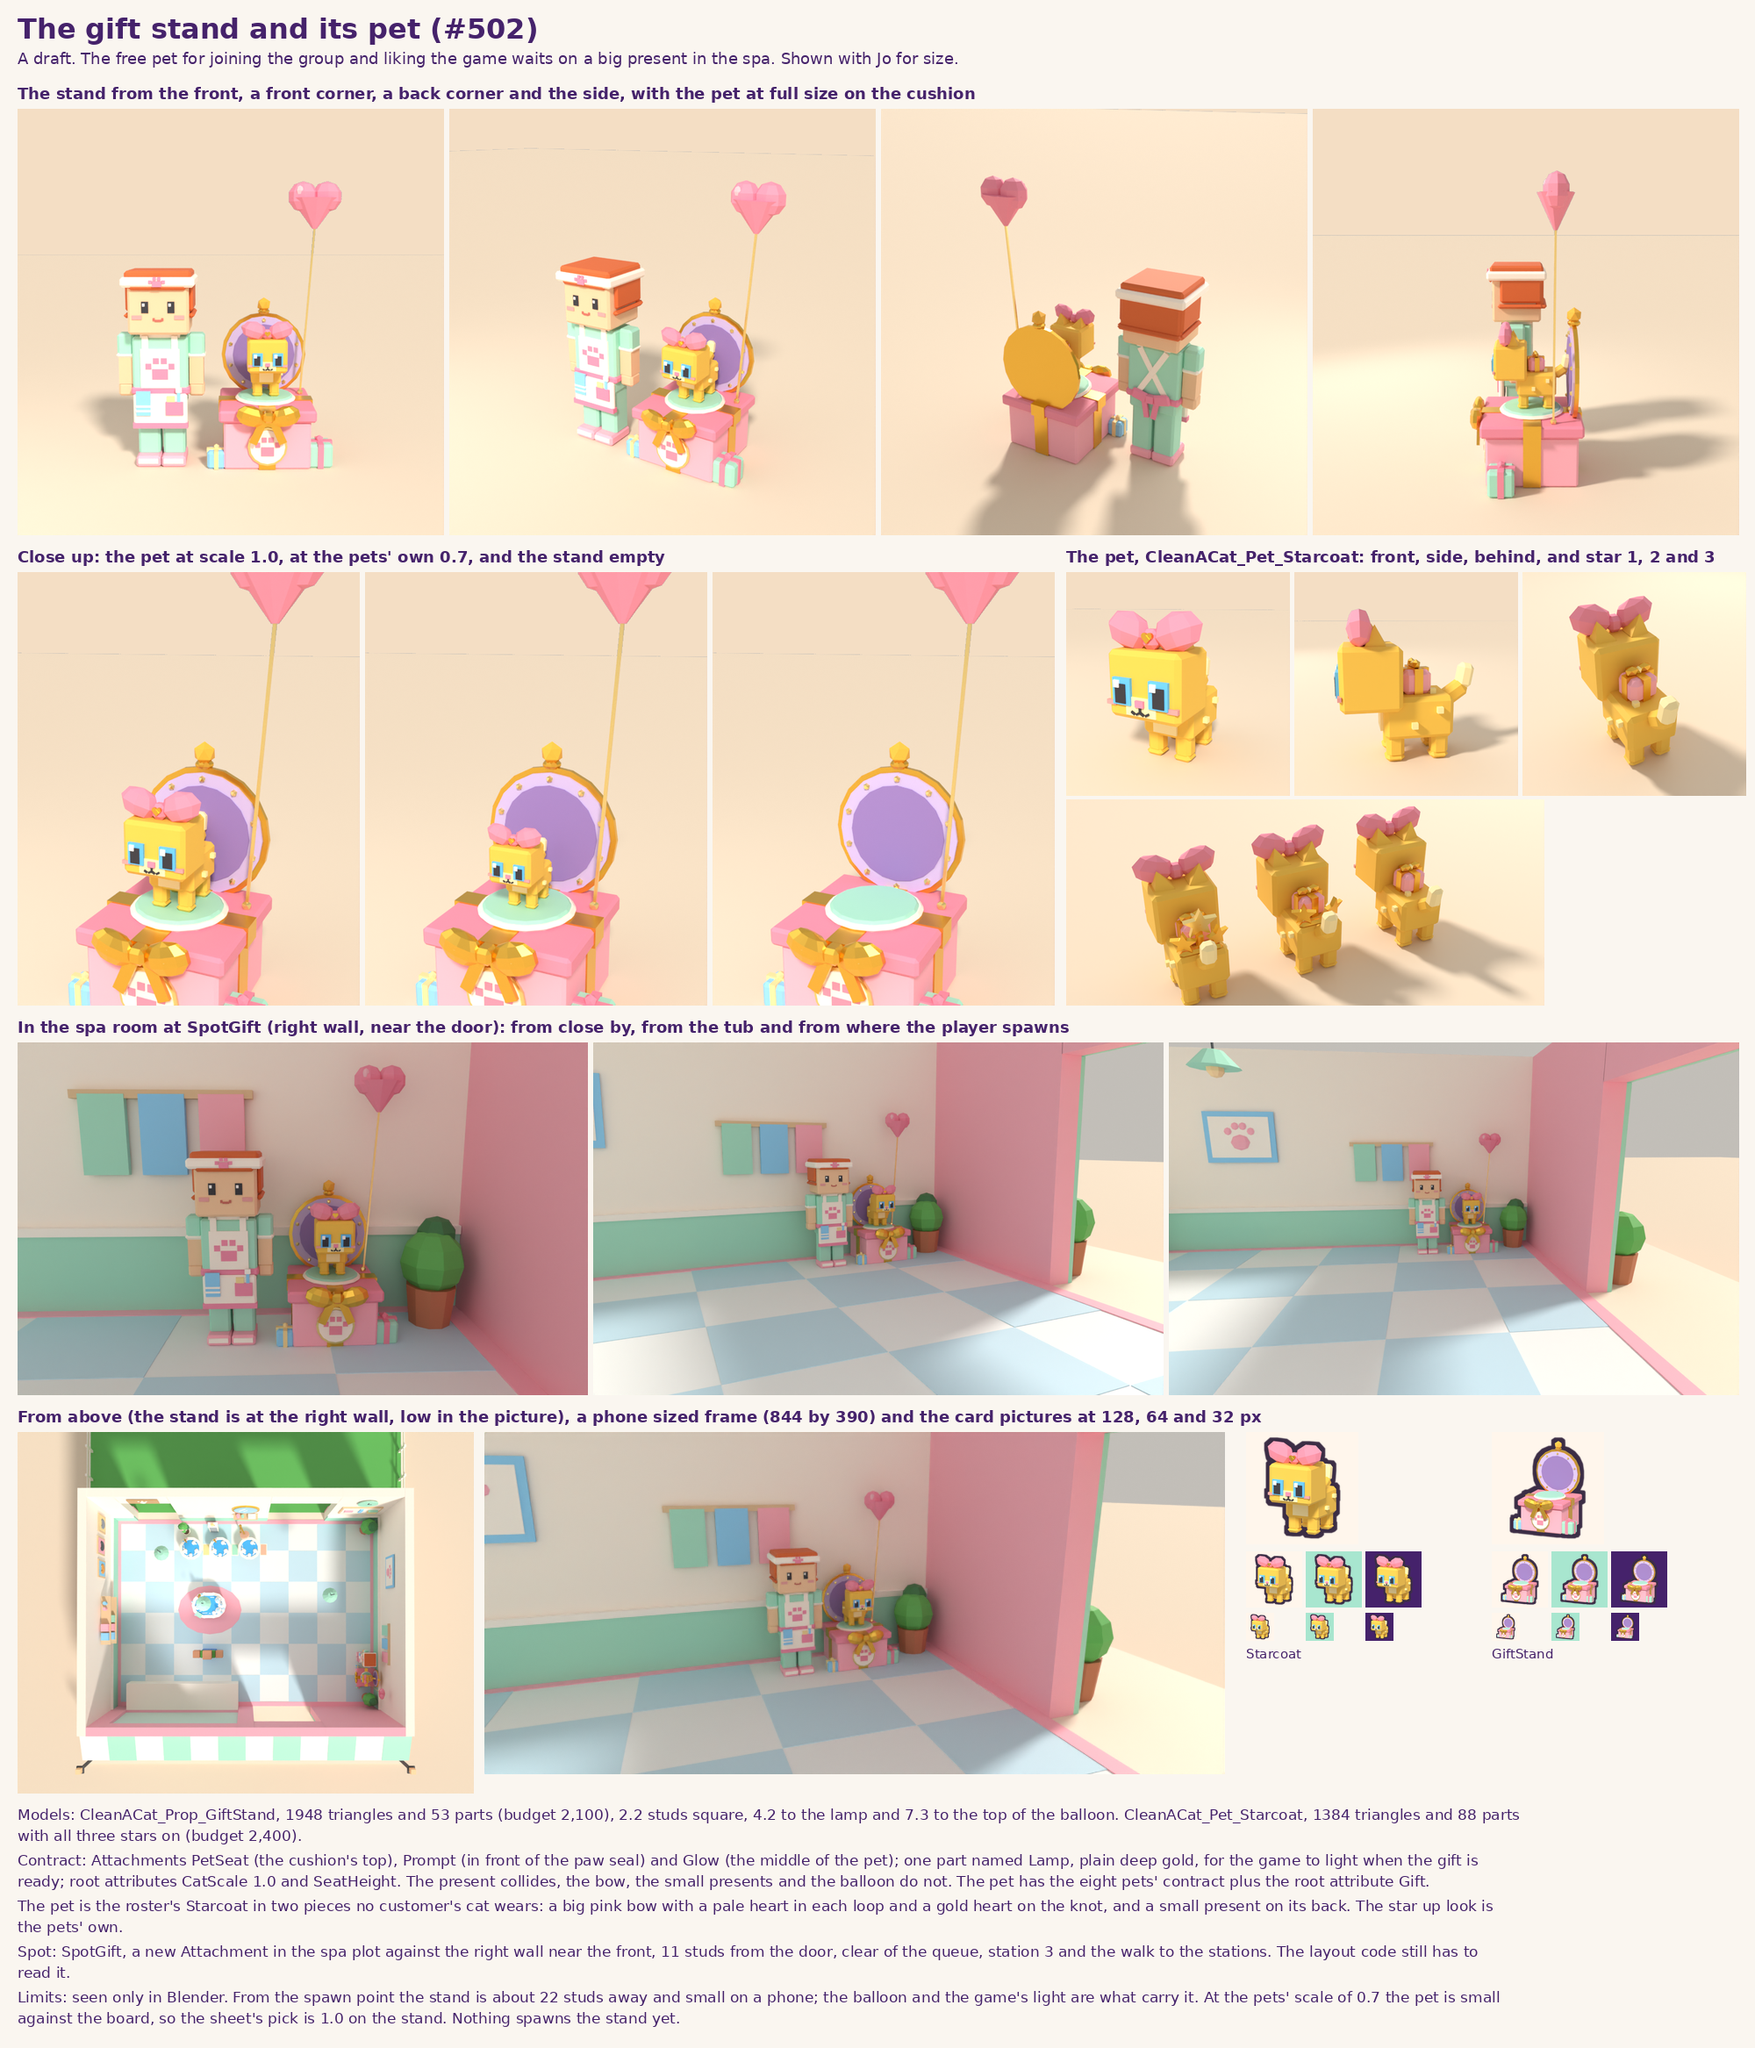
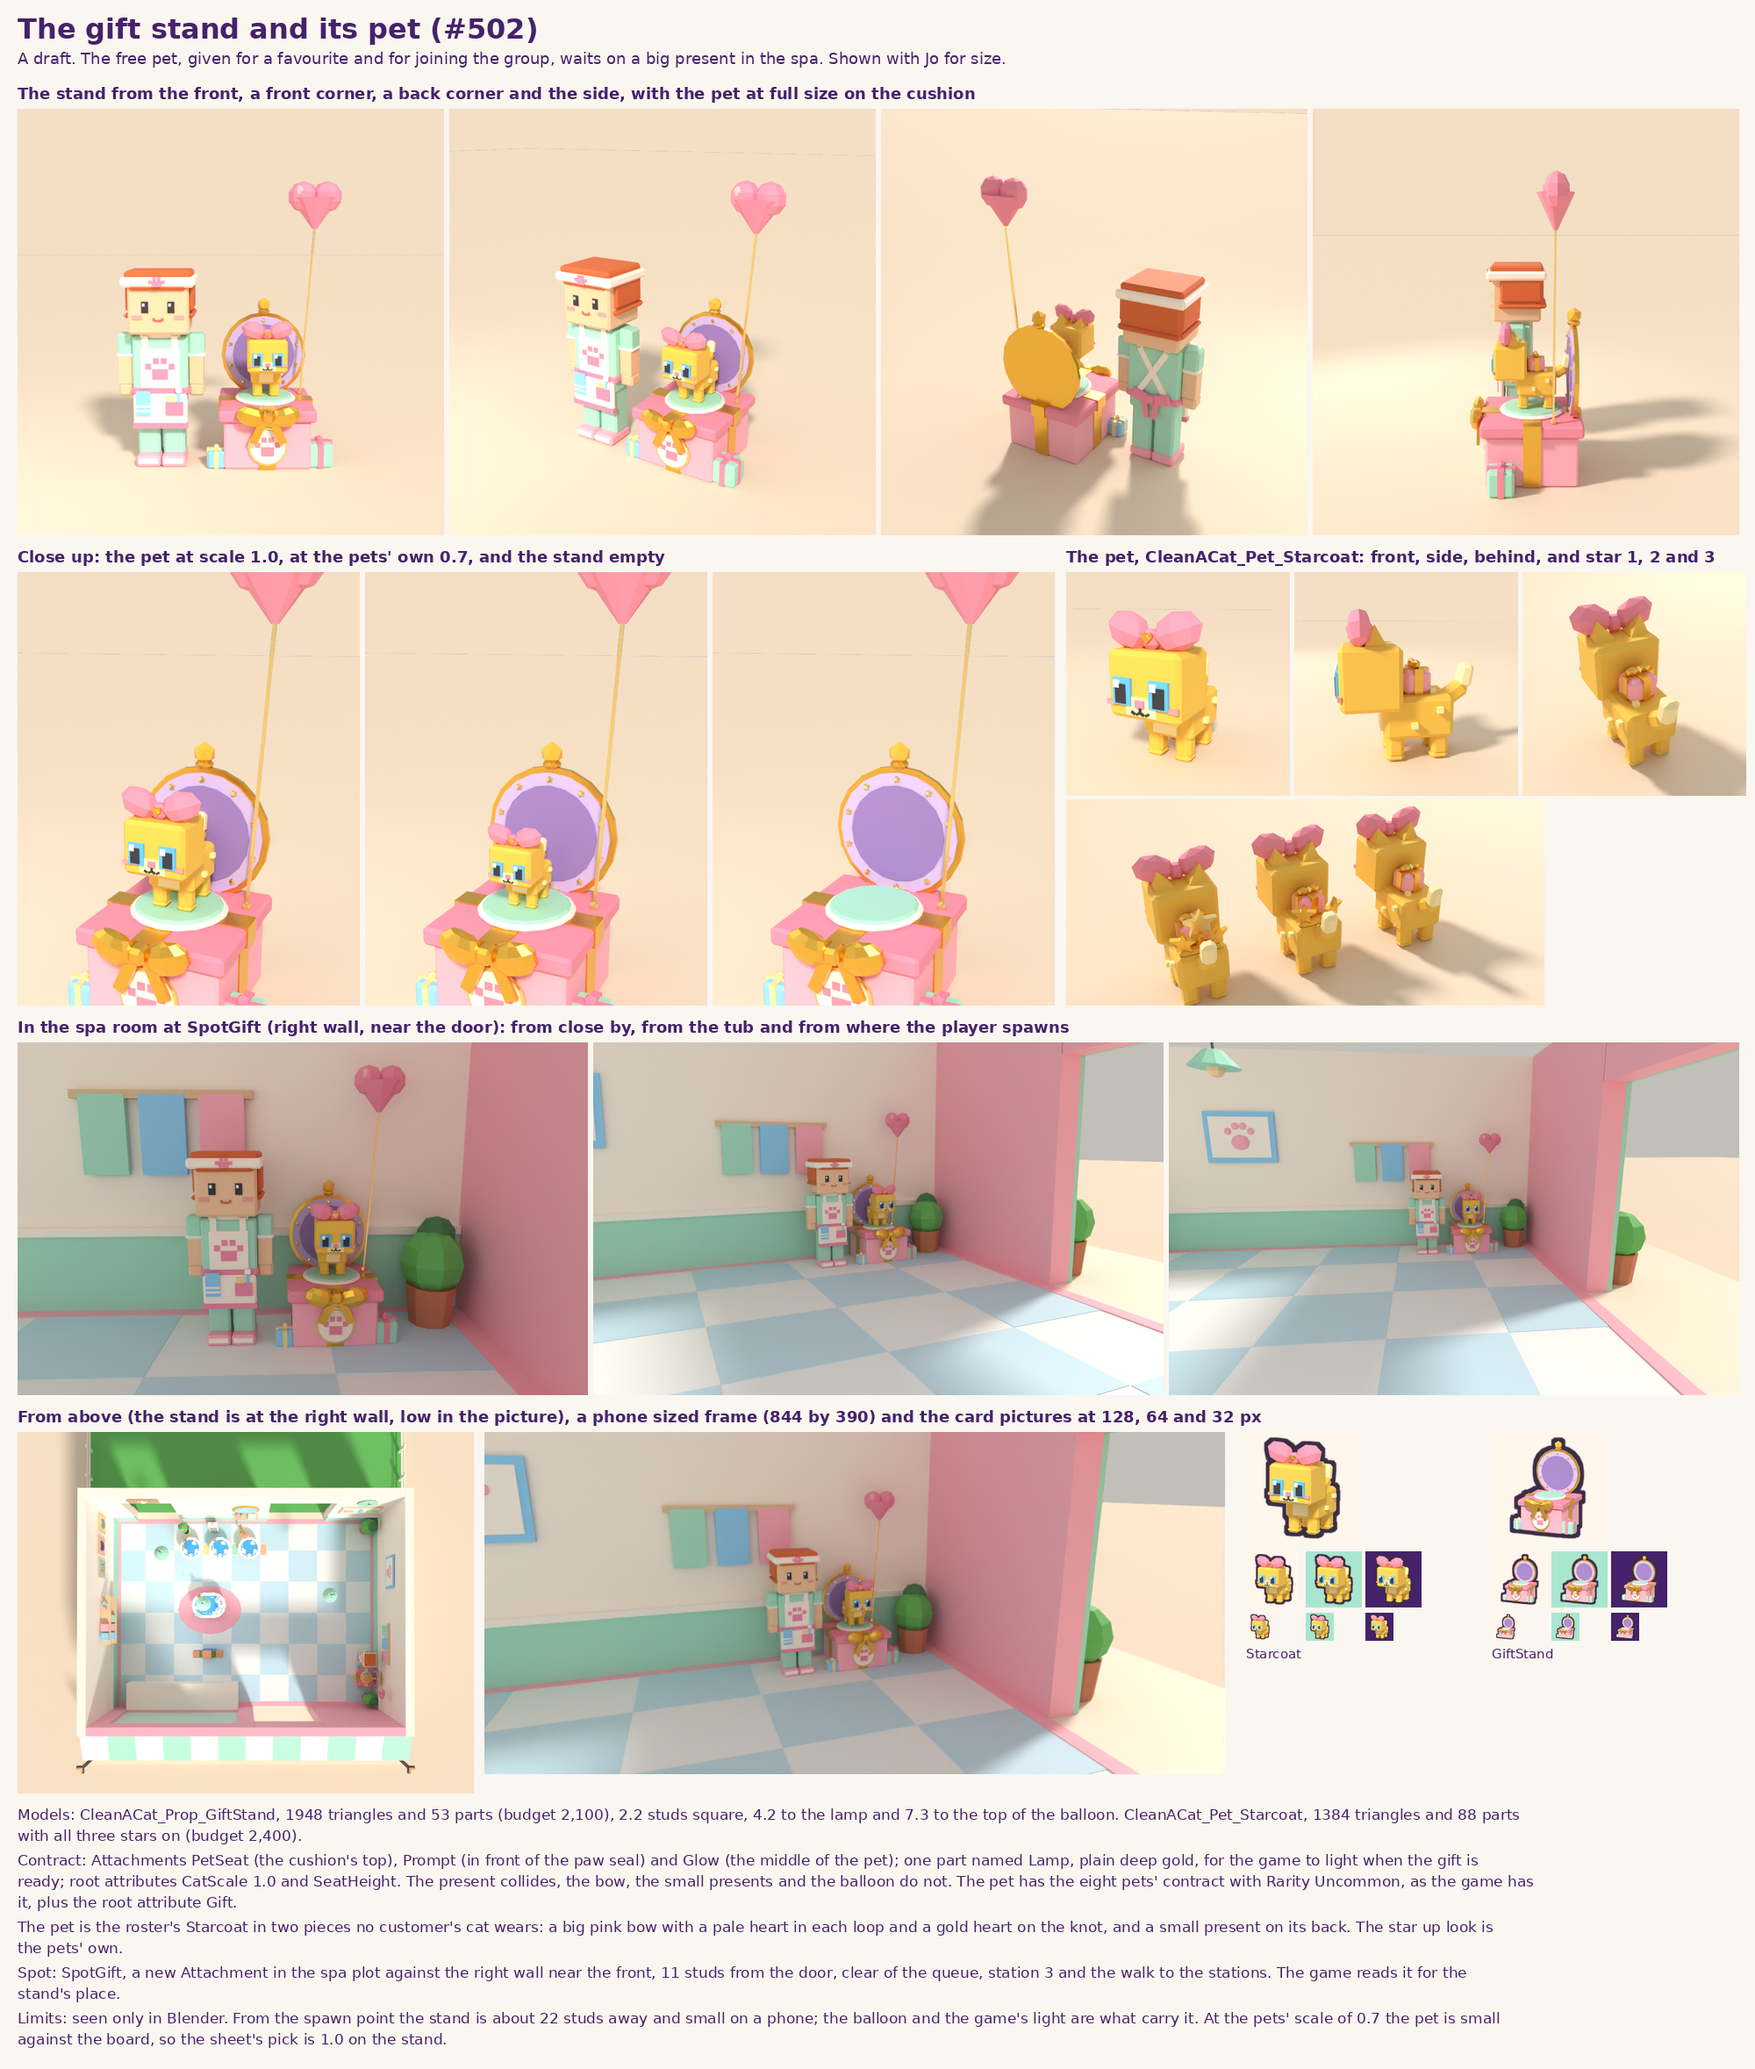
Gift pet: Rarity Uncommon as the game has it, and the gift rule worded as the design's (Review-QA on PR 645)
Claude-Session: https://claude.ai/code/session_01DW2up3E6M21fYJtCcCtEdr

diff --git a/assets/clean-a-cat/blender/pets.py b/assets/clean-a-cat/blender/pets.py
@@ -70,8 +70,11 @@ PETS = {
 
 # The gift stand's pet (gift.py, #502): no crate holds it. Gameplay-Engineer named it after the roster's Starcoat, so
 # it wears that coat; the present bow and the present on its back say it is the gift and not a customer's cat.
+# `pet_rarity` is what the model's `Rarity` attribute says: the game has the gift pet as Uncommon
+# (`CrateRules.GIFT_PETS`), so a free pet does not outshine a crate's Legendary. The coat's own `rarity` stays the
+# roster's, because the cat generator reads it for the star specks.
 GIFT_PETS = {
-    "Starcoat": dict(cats.ROSTER["Starcoat"], gift=True),
+    "Starcoat": dict(cats.ROSTER["Starcoat"], gift=True, pet_rarity="Uncommon"),
 }
 ALL = {**PETS, **GIFT_PETS}
 
@@ -408,7 +411,7 @@ def pet_rbx_extras(name):
         neck = Vector(cats.joints(spec, "walk")["Head"])
         top = props.head_top(key(name), spec, "walk", d)
         burst = neck + Vector((0.0, d["head"]["c"][1], (top if top is not None else d["head"]["top"]) + 0.2)) * k
-        attributes = {"Pet": True, "PetId": name, "Rarity": spec["rarity"], "PetScale": {"Float64": PET_SCALE},
+        attributes = {"Pet": True, "PetId": name, "Rarity": spec.get("pet_rarity", spec["rarity"]), "PetScale": {"Float64": PET_SCALE},
                       "PropSlot": props.slot(key(name))}
         if spec.get("gift"):                             # the gift stand's pet: no crate holds it
             attributes["Gift"] = True

diff --git a/assets/clean-a-cat/blender/gift.py b/assets/clean-a-cat/blender/gift.py
@@ -5,7 +5,9 @@
                                 small lamp on top of the board and a pink heart balloon tied to the lid
 
 The owner on 2026-11-25: "have one pet that can be got by joining group and liking game. Make sure to not crowd any
-player with all at once but make sure the pet for liking/joining group is obvious to find." So the stand is a
+player with all at once but make sure the pet for liking/joining group is obvious to find." The design's rule since
+(gdd.md): the pet is given for a favourite and for joining the group, which a game can check; the like is asked for
+in words and never checked. So the stand is a
 present that reads as a gift from across the room, its heart balloon stands 7 studs up, over a player's head, and
 the pet on it is the pet the player gets (`CleanACat_Pet_Starcoat`, pets.py). A draft: when and how the pet is given is the game's design.
 

diff --git a/docs/art/style-guide.md b/docs/art/style-guide.md
@@ -372,10 +372,10 @@ A crate holds one pet (the game's #511 and #512, switch `pets`). `pets.py` build
 - **Seen only in Blender.** The lit gems want a Studio look, as every Neon part does.
 
 ### The gift stand and its pet (#502), a draft
-The owner on 2026-11-25: "have one pet that can be got by joining group and liking game. Make sure to not crowd any player with all at once but make sure the pet for liking/joining group is obvious to find." The game's side is #521; nothing spawns the stand yet.
+The owner on 2026-11-25: "have one pet that can be got by joining group and liking game. Make sure to not crowd any player with all at once but make sure the pet for liking/joining group is obvious to find." The design's rule since (`gdd.md`): the pet is given for a favourite and for joining the group, which a game can check; the like is only asked for. The game's side is #521.
 - **`CleanACat_Prop_GiftStand`** (`gift.py`): a big pink present, 2.2 studs square and 1.55 tall with its deeper pink lid, wrapped in gold ribbon, a gold bow on the lid's front edge and a cream seal with a pink paw where the ribbons cross. A mint cushion on the lid is the pet's seat. Behind the pet stands a round lilac board with a gold rim, pale gold dots and a small lamp on top, 4.2 studs up. A pink heart balloon on a gold string is tied to the lid's back corner and stands 7.3 studs up, over a player's head, so the gift shows from across the room. Two small presents stand at its foot.
 - **Contract.** Attachments in the stand's first part: `PetSeat` (the cushion's top, 1.69 up, facing the front), `Prompt` (in front of the seal, 1.2 up) and `Glow` (the middle of the pet). Root attributes `CatScale` 1.0 (a pet up to that scale sits inside the board's rim; the check sheet shows 1.0 and the pets' own 0.7) and `SeatHeight`. One part is named `Lamp`: a ball in deep gold, plain SmoothPlastic, for the game to light when the gift is ready (the design lights the stand at about minute 7). The present collides; the bow, the small presents, the dots and the balloon (`_Decor`) do not. Pivot at the floor in the middle of the present, front to -Z.
-- **`CleanACat_Pet_Starcoat`** (`pets.GIFT_PETS`): the pet the stand gives, with the eight pets' contract (`Pet`, `PetId`, `Rarity`, `PetScale`, `Burst`, `_Star2` and `_Star3`) plus the root attribute `Gift` true. It is the roster's Starcoat (gold coat, sky eyes) in two pieces no customer's cat wears: a big deep pink bow on the head with a pale heart in each loop and a small gold heart on the knot, and a small pink present with a gold ribbon on its back. Its pieces are registered in `props.py` as `PetStarcoat`, never under the cat's own name, so the customer's Starcoat keeps its own. `Rarity` is the roster's Legendary: the game decides what a gift pet's rarity means. It is not in `CrateRules.PETS` and no crate holds it.
+- **`CleanACat_Pet_Starcoat`** (`pets.GIFT_PETS`): the pet the stand gives, with the eight pets' contract (`Pet`, `PetId`, `Rarity`, `PetScale`, `Burst`, `_Star2` and `_Star3`) plus the root attribute `Gift` true. It is the roster's Starcoat (gold coat, sky eyes) in two pieces no customer's cat wears: a big deep pink bow on the head with a pale heart in each loop and a small gold heart on the knot, and a small pink present with a gold ribbon on its back. Its pieces are registered in `props.py` as `PetStarcoat`, never under the cat's own name, so the customer's Starcoat keeps its own. `Rarity` is Uncommon, as the game has it (`CrateRules.GIFT_PETS`), so a free pet does not outshine a crate's Legendary; it has an Uncommon's two pieces. Its gold trim is outside the pets' ladder: gold here marks a gift, as on the stand. It is not in `CrateRules.PETS` and no crate holds it.
 - **Plot spot.** `SpotGift` is an Attachment in `CleanACat_Area_SpaPlot`: against the right wall near the front (Roblox x -16.4, z -11.8), between the towel rail and the corner plant, facing across the room. It is 11 studs from the door, clear of the queue, station 3 and the walk from the door to the stations.
 - **Cost.** The stand is 1,948 triangles and 53 parts (budget 2,100, `gift.BUDGET`); one per plot. The pet is 1,384 triangles and 88 parts with all three stars on.
 - **Rules kept.** Nothing floats (the balloon is tied on); no Neon on the stand; the pet's brow is clear. Lilac and gold are used here for a gift, as they are for a special customer.
